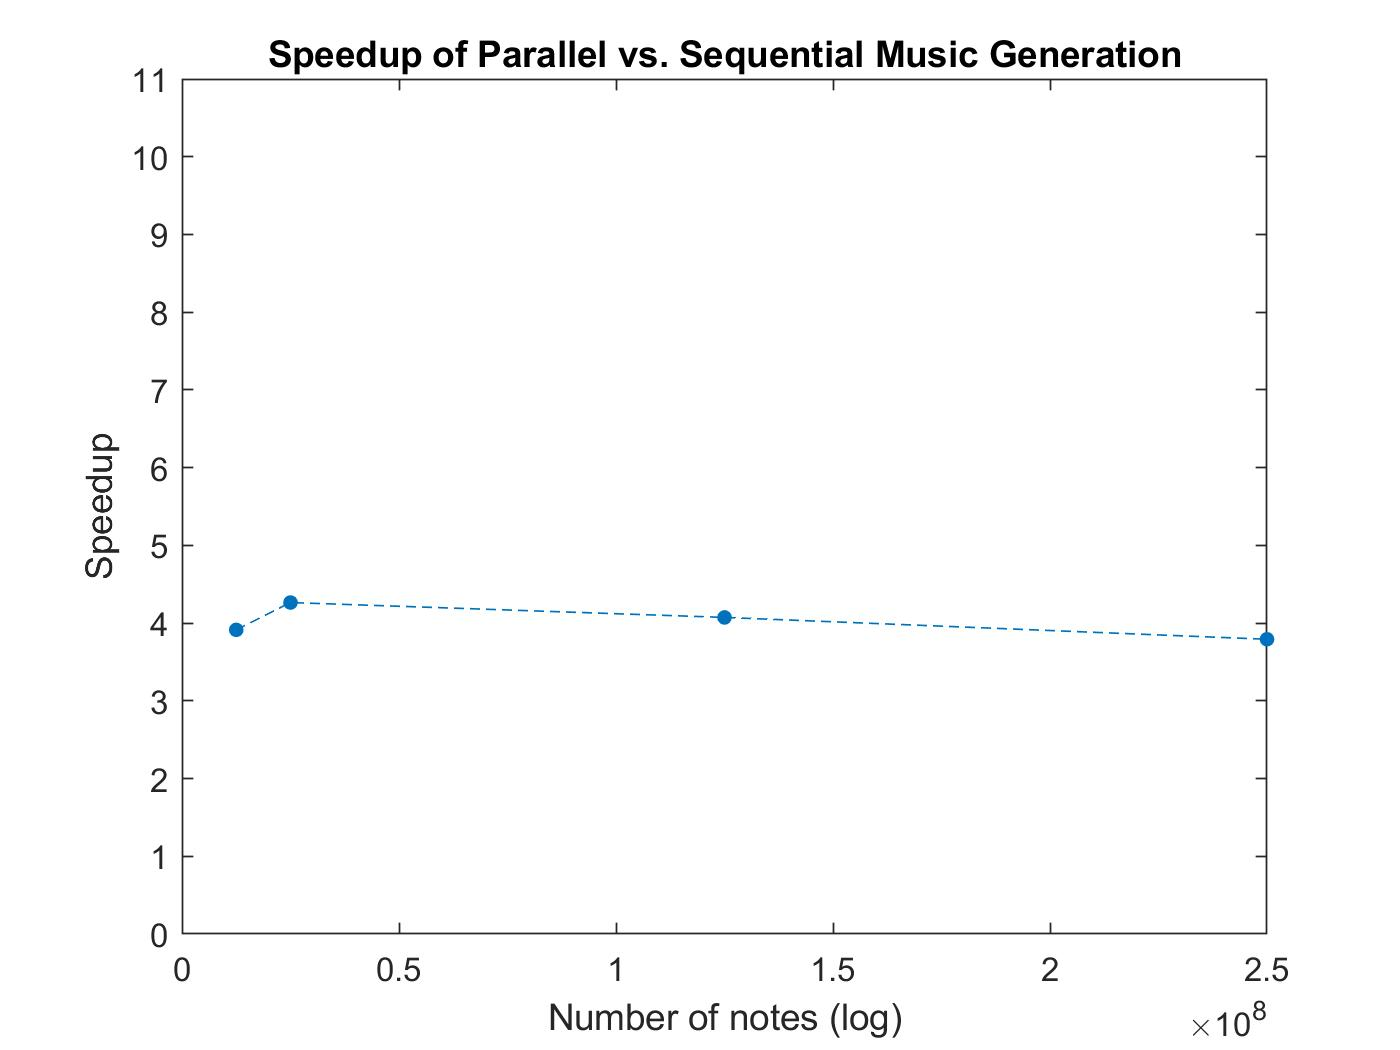
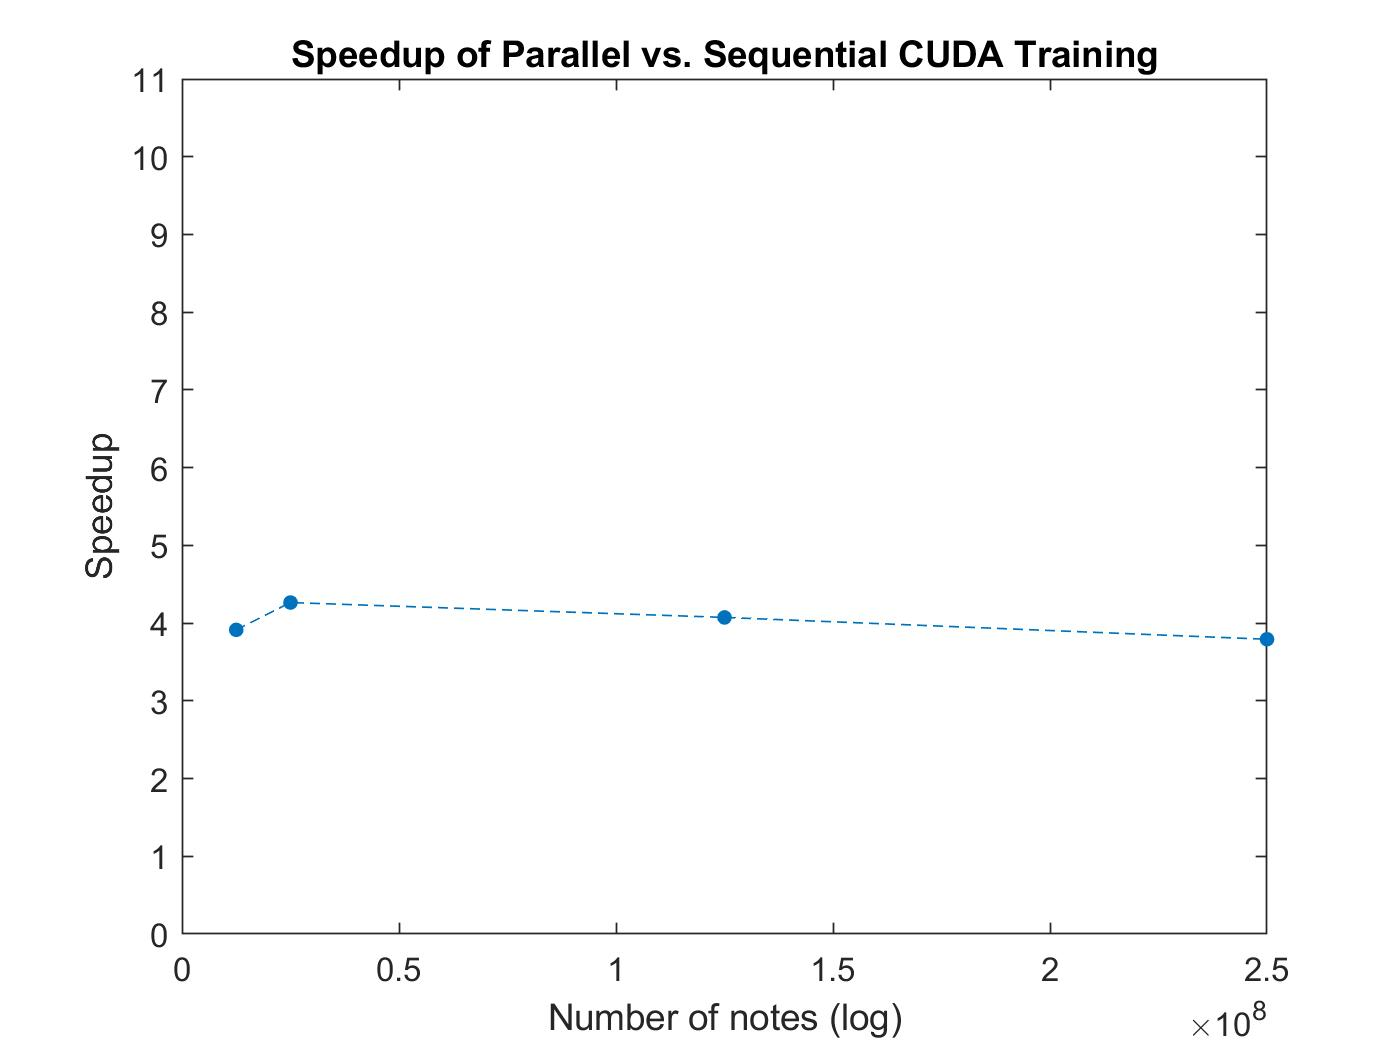
new plots, most of results done

Changed region(s): [[0.1843, 0.0305, 0.86, 0.0914]]

diff --git a/plots/cudaResults.m b/plots/cudaResults.m
@@ -23,13 +23,13 @@ par = [
 plot(N, par/1000, '--.', 'MarkerSize', 15) 
 hold on
 plot(N, seq/1000, '--.', 'MarkerSize', 15)
-title('Time of Parallel vs. Sequential Music Generation')
+title('Time of Parallel vs. Sequential CUDA Training')
 ylabel('Time (ms)')
-xlabel('Number of measures (log)')
+xlabel('Number of notes (log)')
 
 figure;
 plot(N, seq ./ par, '--.', 'MarkerSize', 15)
-title('Speedup of Parallel vs. Sequential Music Generation')
+title('Speedup of Parallel vs. Sequential CUDA Training')
 ylabel('Speedup')
 ylim([0, 11])
 xlabel('Number of notes (log)')

diff --git a/plots/results.m b/plots/results.m
@@ -69,5 +69,5 @@ hold on
 semilogx(N, z, 'LineWidth', 3)
 title('Speedup of Parallel vs. Sequential Music Generation')
 ylabel('Speedup')
-ylim([0, 11])
+ylim([0, 12])
 xlabel('Number of measures (log)')

diff --git a/docs/index.md b/docs/index.md
@@ -115,20 +115,85 @@ The client takes in user input to build a music request to the server. This is r
 
 # Results
 
-## Experimental Setup
-For training,
+## CUDA Training
 
-For music generation, 
+### Experimental Setup
 
-## Speedup Graphs
+For training, we first noted that there are certain portions of the algorithm which are inherently sequential. In order to get a better understanding of how our parallel implementation impacts runtime, we attempted to isolate this sequential portion. Therefore, we first initialized at  memory usage and parsed the input text files into usable arrays. After this parsing, we passed these arrays into both CUDA and sequential counting algorithms. 
 
-## Impact of Problem Size
+In order to verify proper isolation of the parallel portion of the algorithm, we also collected runtime data on the initialization and GPU-CPU transfer steps. These times remained constant across all input file sizes as seen below, verifying our isolation.
 
-## Speedup Limitations
+#### Figure for constant setup times
 
-## Execution Time Breakdown
+### Speedup Graphs
+
+![CUDA Speedup Analysis](diagrams/graphCUDA.png "CUDA Graphs")
+
+### Impact of Problem Size
+
+As the number of notes increased, we see that speedup was relatively stable at around 4. This is because both runtimes are increasing sequentially. In particular, because we did not increase the number of threads between runs, this shows that we are utilizing all threads at maximum capacity - leading to the linear runtime increase of the parallel algorithm.
+
+### Speedup Limitations
+
+As stated above, the linear increase in runtime points to the idea that we are using all threads. Therefore, with an increased thread count, we may be able to see better speedup, especially in larger data sets.
+
+In addition, since we offload our work onto GPUs, there is a fixed constant transfer time, as seen in the above table. This limits our speedup, although since the time is constant, this will become negligable with larger data sets.
+
+## Music Generation
+
+### Experimental Setup
+
+For music generation, we wanted to test our parallel implementation of `generateNotes()` against a sequential version. The function `generateNotes()` generates 10 voices, each using a soprano, bass, or chord matrix as a Markov Chain to generate its notes.
+
+Because the Markov generation is inherently sequential, we aimed to test how well we were able to parallelize the process of generating all the voices in parallel. In order to test this, for the sequential algorithm, the process was:
+
+1. Load matrices
+2. For each number of measures to test, run `generateNotes()` 10 times
+3. Take the average of all 10 runs per number of measures
+
+For the parallel algorithm, since each process would load the matrix it needed on its own, we just timed the `generateNotesParallel()` function as a whole for each number of measures.
+
+For both the sequential and parallel tests, we used a voice vector specifier of:
+
+```
+[0, 0, 1, 1, 2, 2, 0, 0, 1, 2]
+```
+where the numbers denote a:
+
+- `0`: chord line
+- `1`: bass line
+- `2`: soprano line
+
+### Speedup Graphs
+
+![Music Generation Speedup Analysis](diagrams/graphMusicGen.png "Music Generation Graphs")
+
+### Impact of Problem Size
+
+Initially, from a problem size of 1 to 1,000 measures, the speedup is constant around 4. The reason the speedup does not increase too much here is that the problem size is very small, so the overhead of multiprocessing dominates, and parallelism is not very evident.
+
+Starting from a problem size of 1000 all the way until 50,000 measures, the speedup steadily increases until around 6. The reason the speedup caps at 6 is due to 2 reasons:
+
+1. Because chord matrices are much smaller than note matrices by about 1000 times, their computation time is much smaller than generating music using the note matrices, the speedup is mostly dominated by the computation time of the note matrices. Incidentally, in the test problem we chose, we had 4 chord lines and 6 melody lines.
+2. The cost of transferring memory between processors is high, since the resulting notes generated by each processor is very large.
+
+After 50,000 measures, the speedup goes down.
+
+### Speedup Limitations
+
+Because we were doing speedup over processors, we had limitations in:
+
+1. __Number of Processors:__ If there are less than 10 processors, then not every voice will be assigned solely to a processor. This means that a single processor has to generate multiple voices, which will cause significant slowdown in the problem, since one voice will have to wait until a processor is finished with its current voice.
+2. __Problem definition:__ We only support 10 voices in our music generation. In each voice, since we use a Markov Chain to generate notes, which is a sequential process, there is no parallelism possible there. Therefore, the maximum speedup we should expect is 10.
+3. __Memory transfer:__ Since we did each voice computation on a different processor, which all have different memory spaces, we had to combine all the results into one memory space at the end. This step can have limitations in hardware, where the way the CPUs are connected will have a maximum bandwidth.
+
+### Execution Time Breakdown
 
 ## Machine Choice
+
+For our project, we used two machines, an AWS p2.xlarge instance, and a standard Dell XPS laptop.
+
+For the 
 
 # Future Work
 
